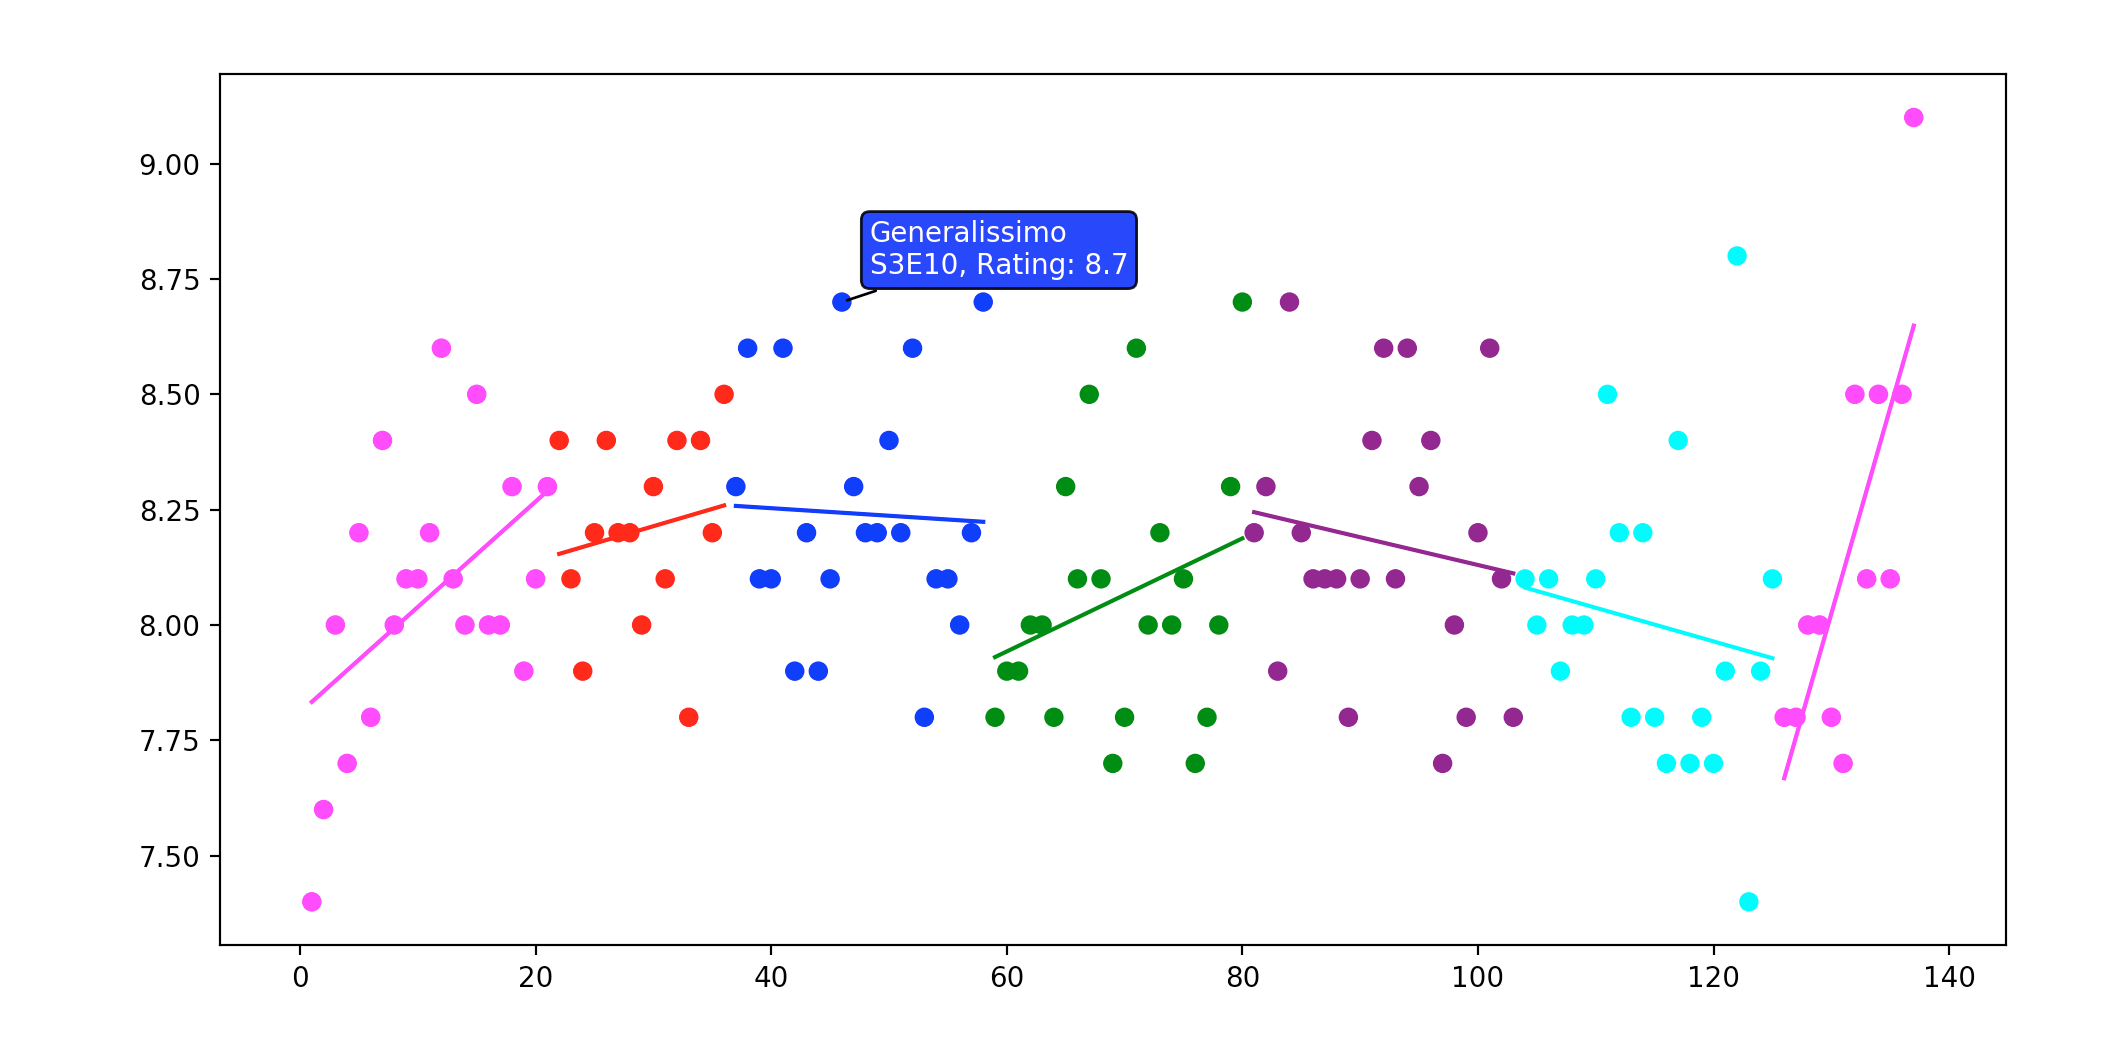
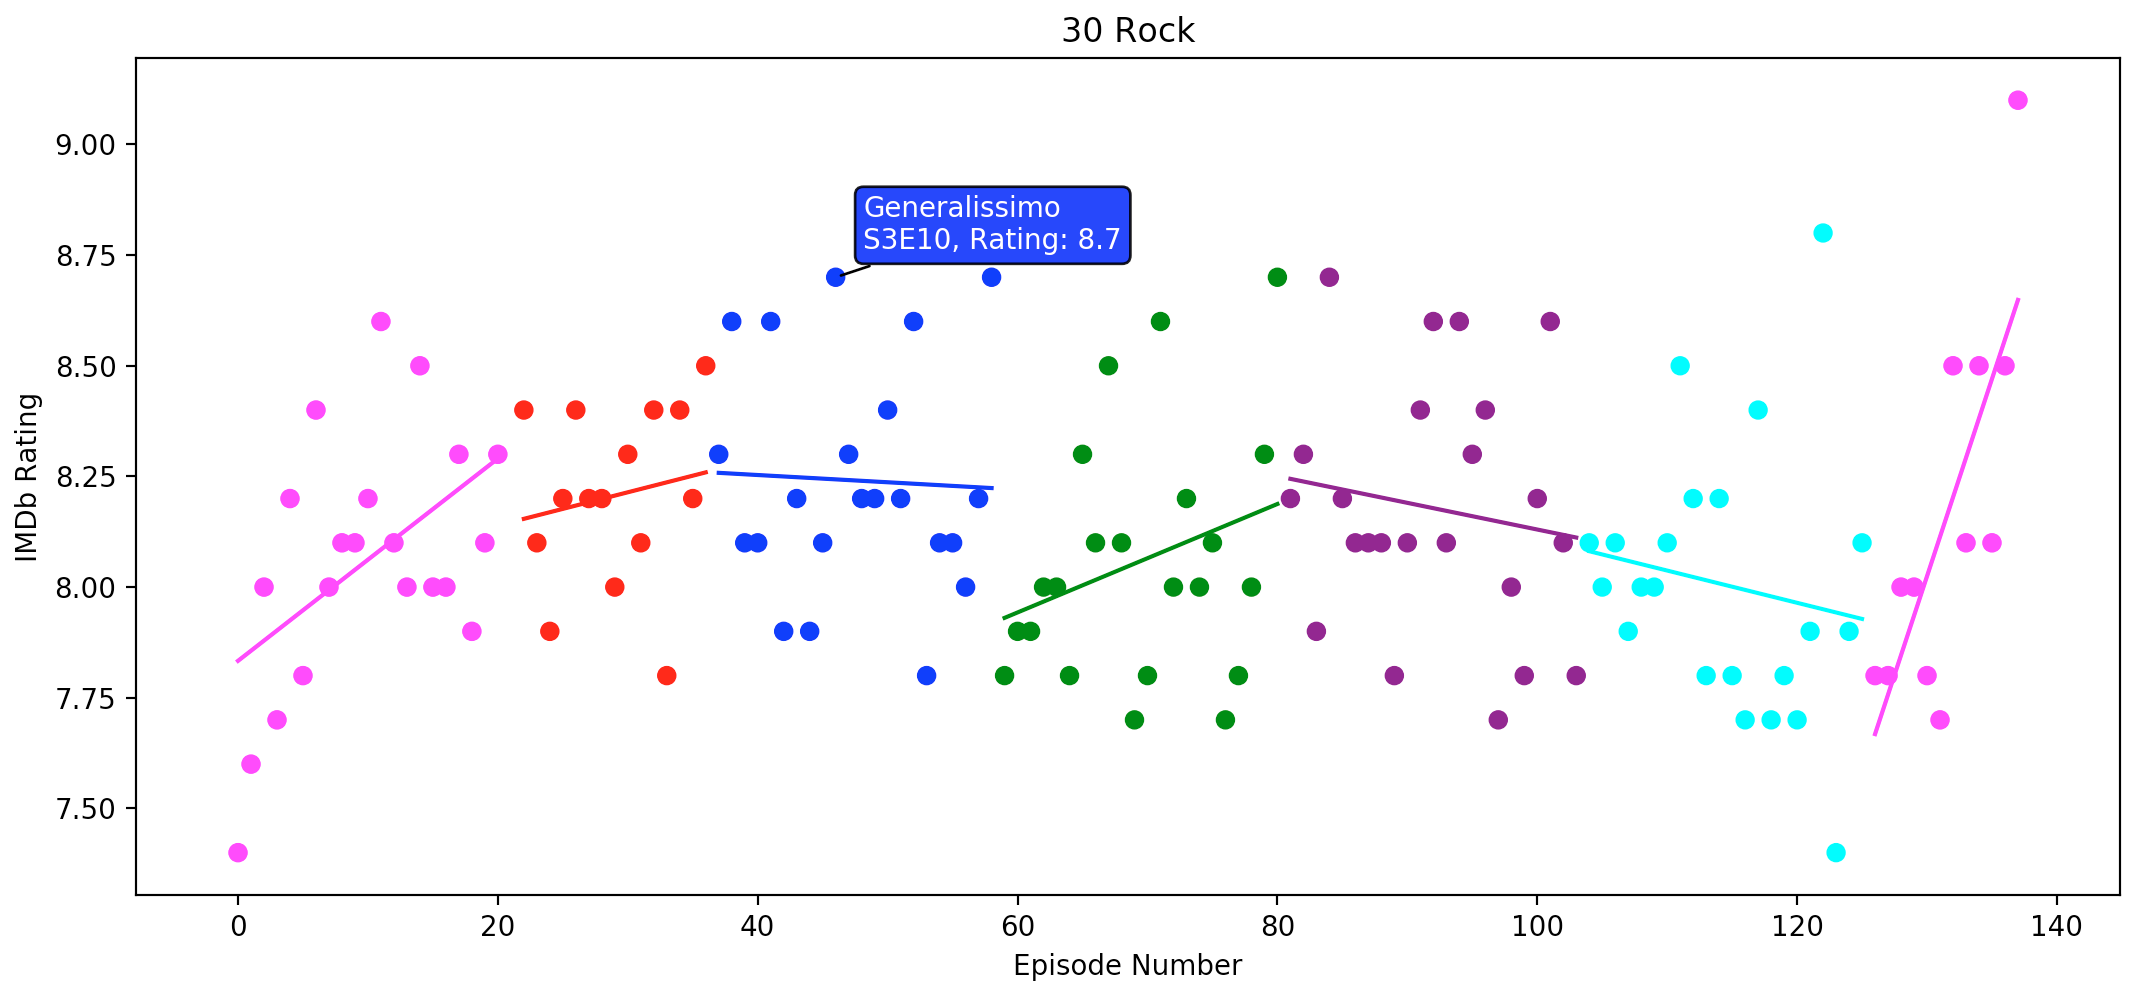
Updated example

diff --git a/main.py b/main.py
@@ -115,5 +115,7 @@ while request != 'quit':
 
 	fig.canvas.mpl_connect("motion_notify_event", hover)
 	plt.title(show_name)
+	plt.ylabel("IMDb Rating")
+	plt.xlabel("Episode Number")
 
 	plt.show()
